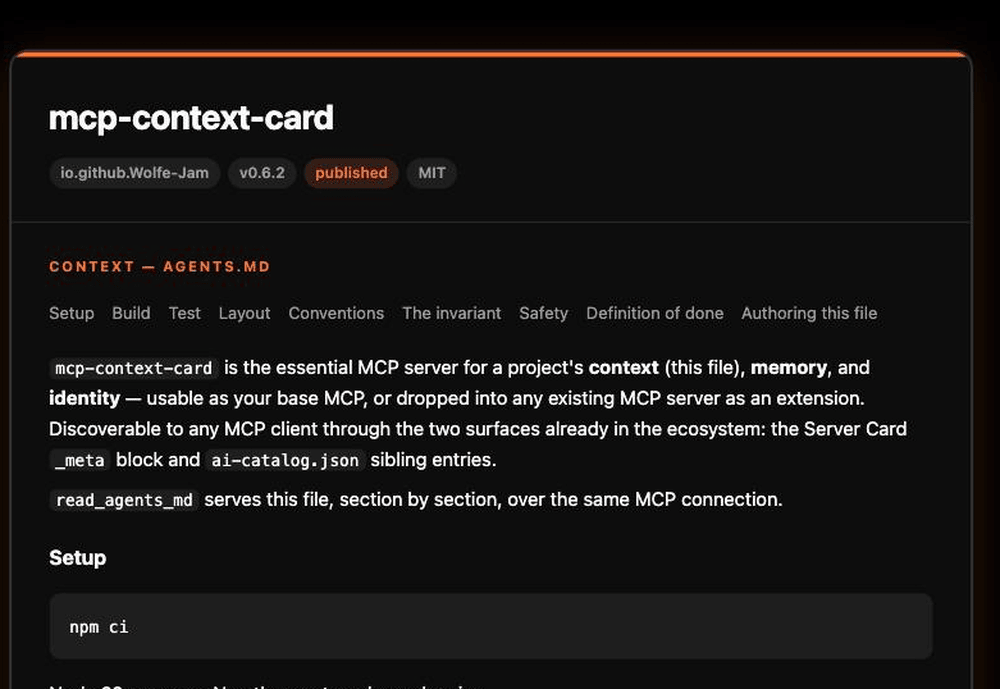
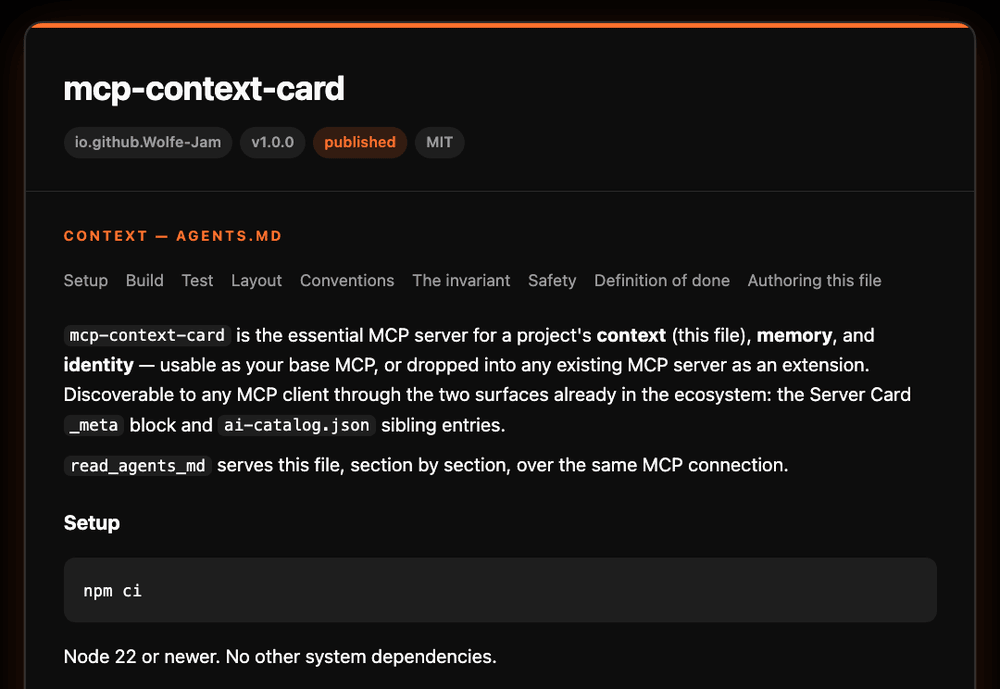
release: mcp-context-card v1.0.0 (#46)
Stable surface. No functional change from 0.6.2 — declares the API
settled and becomes the reference point.

Version bump across every spot version:check covers (package.json,
server.json x2, package-lock.json x2, src/constants.ts,
.well-known/fafa agent.version, demo.ts x2, the hand-shown examples
in docs/MECHANISMS.md + examples/README.md) + CHANGELOG 1.0.0 entry +
the 3 version-pill card PNGs re-shot at v1.0.0 (dark/light/identity;
re-cropped to the 1000px convention, pngquant'd — tarball 200.7 kB,
down from 0.6.2).

CHANGELOG 1.0.0 folds in the one doc change since 0.6.2 (the
docs/WIRING.md inspector-2.x prompts/list note, PR #45) and records
the three-client verification: Cursor 10/10, MCP SDK Client 10/10,
MCP Inspector conformance clean incl. tools/list --strict.

104 tests, faf-cli check --strict Trophy 100%, vendor-neutral sweep clean.

Changed region(s): [[0.0, 0.0305, 0.992, 1.0], [0.062, 0.8534, 0.496, 0.9753]]

diff --git a/demo.ts b/demo.ts
@@ -30,7 +30,7 @@ async function connect(): Promise<Client> {
     command: process.execPath,
     args: ["--import", "tsx", join(here, "src/server.ts")],
   });
-  const client = new Client({ name: "demo-host", version: "0.6.2" }, { capabilities: {} });
+  const client = new Client({ name: "demo-host", version: "1.0.0" }, { capabilities: {} });
   await client.connect(transport);
   return client;
 }
@@ -103,7 +103,7 @@ console.log(`\n${line}\n4. DISCOVERY — list_context_sources(), then the same s
   await new Promise((r) => setTimeout(r, 50));
   const { port } = srv.address() as { port: number };
 
-  const httpClient = new Client({ name: "demo-host", version: "0.6.2" }, { capabilities: {} });
+  const httpClient = new Client({ name: "demo-host", version: "1.0.0" }, { capabilities: {} });
   await httpClient.connect(new StreamableHTTPClientTransport(new URL(`http://127.0.0.1:${port}/mcp`)));
   const tools = (await httpClient.listTools()).tools.map((t) => t.name);
   console.log(`· POST http://127.0.0.1:${port}/mcp → ${tools.length} tools: ${tools.join(", ")}`);

diff --git a/docs/card-dark.html b/docs/card-dark.html
@@ -78,7 +78,7 @@ section:last-child{border-bottom:0}
 <main class="card">
   <div class="top">
     <h1>mcp-context-card</h1>
-    <div class="pills"><span class="pill">io.github.Wolfe-Jam</span><span class="pill">v0.6.2</span><span class="pill accent">published</span><span class="pill">MIT</span></div>
+    <div class="pills"><span class="pill">io.github.Wolfe-Jam</span><span class="pill">v1.0.0</span><span class="pill accent">published</span><span class="pill">MIT</span></div>
   </div>
   <section>
     <p class="label">Context — AGENTS.md</p>

diff --git a/docs/card-light.html b/docs/card-light.html
@@ -78,7 +78,7 @@ section:last-child{border-bottom:0}
 <main class="card">
   <div class="top">
     <h1>mcp-context-card</h1>
-    <div class="pills"><span class="pill">io.github.Wolfe-Jam</span><span class="pill">v0.6.2</span><span class="pill accent">published</span><span class="pill">MIT</span></div>
+    <div class="pills"><span class="pill">io.github.Wolfe-Jam</span><span class="pill">v1.0.0</span><span class="pill accent">published</span><span class="pill">MIT</span></div>
   </div>
   <section>
     <p class="label">Context — AGENTS.md</p>

diff --git a/docs/card.html b/docs/card.html
@@ -78,7 +78,7 @@ section:last-child{border-bottom:0}
 <main class="card">
   <div class="top">
     <h1>mcp-context-card</h1>
-    <div class="pills"><span class="pill">io.github.Wolfe-Jam</span><span class="pill">v0.6.2</span><span class="pill accent">published</span><span class="pill">MIT</span></div>
+    <div class="pills"><span class="pill">io.github.Wolfe-Jam</span><span class="pill">v1.0.0</span><span class="pill accent">published</span><span class="pill">MIT</span></div>
   </div>
   <section>
     <p class="label">Context — AGENTS.md</p>

diff --git a/docs/index.html b/docs/index.html
@@ -78,7 +78,7 @@ section:last-child{border-bottom:0}
 <main class="card">
   <div class="top">
     <h1>mcp-context-card</h1>
-    <div class="pills"><span class="pill">io.github.Wolfe-Jam</span><span class="pill">v0.6.2</span><span class="pill accent">published</span><span class="pill">MIT</span></div>
+    <div class="pills"><span class="pill">io.github.Wolfe-Jam</span><span class="pill">v1.0.0</span><span class="pill accent">published</span><span class="pill">MIT</span></div>
   </div>
   <section>
     <p class="label">Context — AGENTS.md</p>

diff --git a/src/constants.ts b/src/constants.ts
@@ -1,5 +1,5 @@
 /** Server identity constants, in their own module so any file can import
  *  them without pulling in the whole server. */
 export const NAME = "mcp-context-card";
-export const VERSION = "0.6.2";
+export const VERSION = "1.0.0";
 export const SERVER_CARD_URI = "mcp-context-card://server-card";

diff --git a/CHANGELOG.md b/CHANGELOG.md
@@ -2,6 +2,33 @@
 
 All notable changes to this project. Adheres to [Semantic Versioning](https://semver.org).
 
+## 1.0.0
+
+Stable surface. No functional change from 0.6.2 — this release declares
+the API settled and is the reference point everything downstream pins to.
+
+The shape that's now stable: **nine tools** (`read_agents_md`,
+`list_agents_md_sections`, `author_agents_md`, `remember`, `recall`,
+`forget`, `whoami`, `list_context_sources`, `render_context_card`),
+**three concerns** (context / memory / identity), **two discovery
+mechanisms** (the Server Card `_meta` block, a self-published
+`ai-catalog.json`), **two transports** (stdio, stateless Streamable HTTP).
+
+Verified against three independent clients before the cut:
+
+- **Cursor** (3.18.25 / Grok 4.6) — the full behavioural matrix, 10/10.
+- **The MCP SDK `Client`** driving the server over stdio — the same
+  client stack a host uses, 10/10, `resources/templates/list` issued
+  directly on the wire.
+- **`@modelcontextprotocol/inspector`** (2.5.0, the canonical
+  conformance tool) — every method answers correctly; `tools/list
+  --strict` reports zero schema-portability problems across all nine.
+
+- `docs/WIRING.md` gains one host-gotcha note: `@modelcontextprotocol/inspector`
+  2.x reports `prompts/list` as `{ "prompts": [] }` — the server declares
+  only `tools` + `resources` and returns `-32601` for `prompts/list` on
+  the wire; the current Inspector CLI masks that as an empty list.
+
 ## 0.6.2
 
 Tool-description quality and anti-drift. Nothing here changes what the

diff --git a/examples/README.md b/examples/README.md
@@ -27,7 +27,7 @@ The three discovery routes need no MCP handshake:
 $ curl -s localhost:3000/.well-known/mcp/server-card
 {
   "name": "mcp-context-card",
-  "version": "0.6.2",
+  "version": "1.0.0",
   "_meta": {
     "io.github.Wolfe-Jam.mcp-context-card/context":  { "source": "AGENTS.md",          "mediaType": "text/markdown" },
     "io.github.Wolfe-Jam.mcp-context-card/memory":   { "source": "project.fafm",       "mediaType": "application/vnd.fafm+yaml", "iana": "…", "note": "no de-facto standard for agent memory yet — this is one instantiation" },

diff --git a/docs/MECHANISMS.md b/docs/MECHANISMS.md
@@ -29,7 +29,7 @@ Both return:
 ```jsonc
 {
   "name": "mcp-context-card",
-  "version": "0.6.2",
+  "version": "1.0.0",
   "_meta": {
     "io.github.Wolfe-Jam.mcp-context-card/context": {
       "source": "AGENTS.md",
